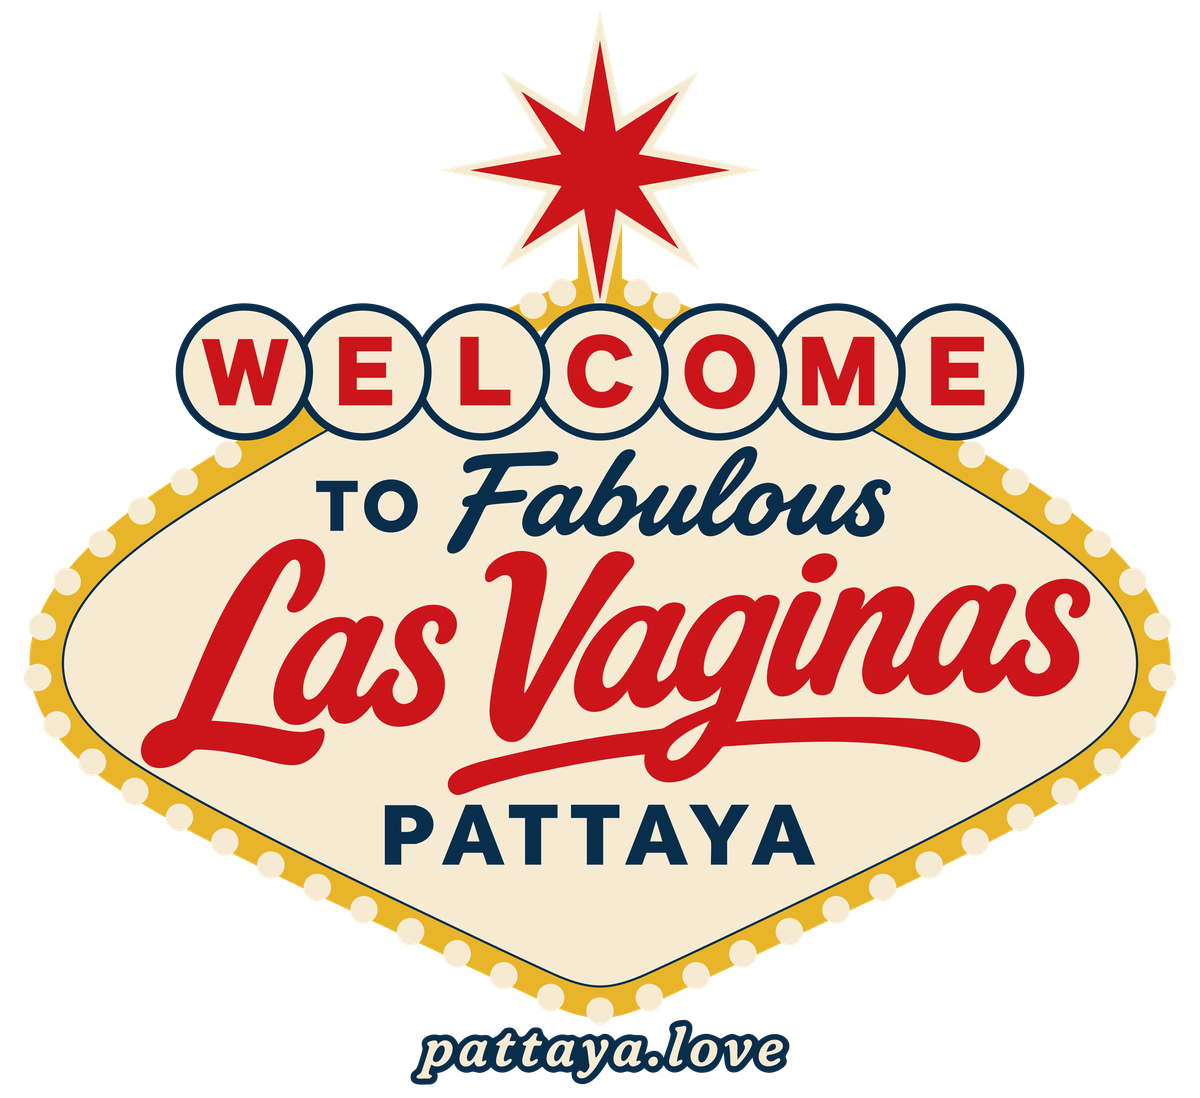
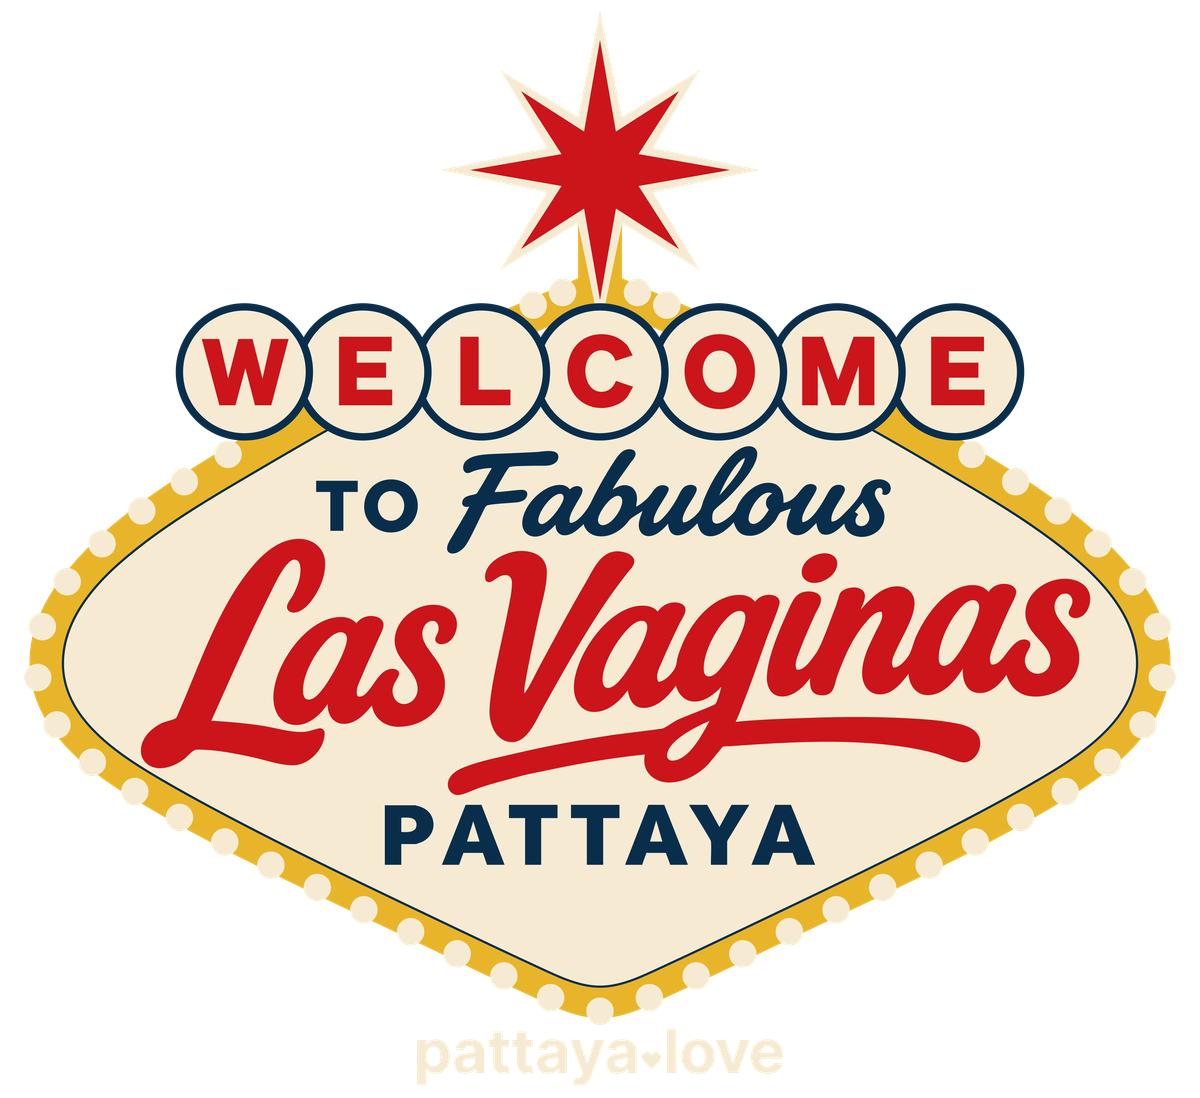
Shirts: use the V4 artwork and show one price in US dollars (#11)
- Motif images and the hero sign now come from production-v4: the pattaya.love wordmark sits under the sign in solid cream on all three designs
- Planned price is $29 plus shipping; THB and EUR are gone from the hero, the configurator, the phone bar and the FAQ
- Shipping copy: worldwide is the plan, the print partner is in the US, a Thailand-made option may follow later

Classic Vegas is still previewed on a white shirt, where the cream wordmark is barely visible.

Changed region(s): [[0.3392, 0.929, 0.6783, 0.9909]]

diff --git a/src/data/shirts.ts b/src/data/shirts.ts
@@ -74,8 +74,12 @@ export const sizes: ShirtSize[] = [
   { slug: 'any', label: 'Not sure yet' },
 ];
 
-/** Shown as a planned price only — not an offer, nothing can be paid. */
-export const plannedPrice = '~690 THB / ~19 €';
+/**
+ * Shown as a planned price only — not an offer, nothing can be paid.
+ * US dollars only: the shirts ship worldwide from a print partner in the US.
+ * Shipping comes on top.
+ */
+export const plannedPrice = '$29';
 
 export const interestPath = (motif: string, size: string) => `/shirts/interest/${motif}/${size}/`;
 
